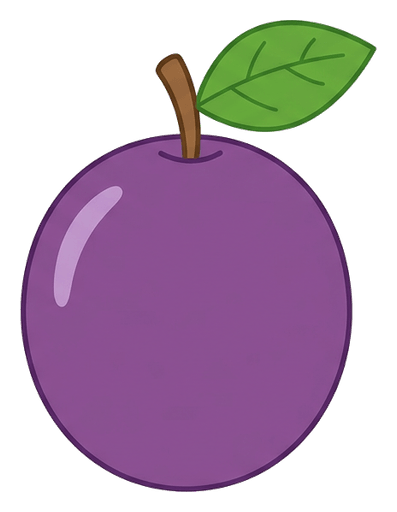
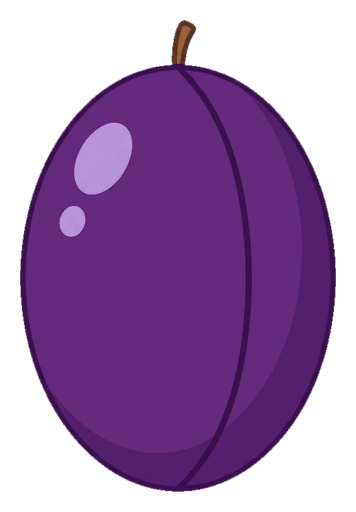
Tellen: nieuw pruimplaatje (ovaal, paars, zonder blaadje), oude als pruim-oud.png; besluit Sara Ronde 53 (controle overgeslagen: back-upbranch)
Claude-Session: https://claude.ai/code/session_019HGXxT1wyk7NJR8Z8Kb8k1

diff --git a/src/lib/voorwerpen/lijst-algemeen.ts b/src/lib/voorwerpen/lijst-algemeen.ts
@@ -23,7 +23,7 @@ export const ALGEMEEN: Voorwerp[] = [
     naam: "pruim",
     titel: "Pruim",
     groep: "fruit",
-    onderwerp: "a purple plum with a short brown stem",
+    onderwerp: "one plum fruit: an elongated egg-shaped oval, taller than wide, rich deep purple skin (violet-purple, not blue), a clear vertical crease line running down one side, one small soft highlight, a tiny thin brown stem on top and NO leaf; clearly a plum and not an apple (no dimple, no round apple shape)",
     schets: `<ellipse class="r" cx="100" cy="112" rx="58" ry="66" fill="#8a4fd0"/><path class="r" d="M100 46 L104 24" fill="none"/>`,
   },
   {

diff --git a/MAGNIFIC-PROMPTS.md b/MAGNIFIC-PROMPTS.md
@@ -82,12 +82,12 @@ Lessen: Meer, minder, evenveel (`squla-meer-minder-evenveel1-1`), Meer, minder, 
 a green pear with a short brown stem, simple flat illustration for a children's math app: solid flat colors, one soft highlight, thin dark outline, minimal details, no gradients, no shadow, no face, no eyes, no text. Single object centered on a plain pure white background.
 ```
 
-### 9. Pruim — `pruim.png` — ✅ gegenereerd
+### 9. Pruim — `pruim.png` — ✅ gegenereerd (opnieuw 20 nov 2026, Ronde 53: de oude leek op een paarse appel; nu ovaal, paars, met kerf, zonder blaadje; 2e poging (de 1e was te blauw, paste niet bij het paarse getal); vierkant 1:1, 1K, Nano Banana 2; oude bewaard als `pruim-oud.png`)
 
 Lessen: Proef: Fruit tellen (glow in the dark) (`proef-fruit-glow`), Proef: Fruit tellen (zonder glow) (`proef-fruit-plat`), Proef: Fruit tellen (gloed alleen als het iets betekent) (`proef-fruit-moment`), Fruit tellen (`squla-tellen-fruit-1`), Fruit tellen (nog moeilijker) (`squla-tellen-fruit-3`), Vormen en kleuren (`squla-vormen-kleuren-1`)
 
 ```
-a purple plum with a short brown stem, simple flat illustration for a children's math app: solid flat colors, one soft highlight, thin dark outline, minimal details, no gradients, no shadow, no face, no eyes, no text. Single object centered on a plain pure white background.
+one plum fruit: an elongated egg-shaped oval, taller than wide, rich deep purple skin (violet-purple, not blue), a clear vertical crease line running down one side, one small soft highlight, a tiny thin brown stem on top and NO leaf; clearly a plum and not an apple (no dimple, no round apple shape), simple flat illustration for a children's math app: solid flat colors, one soft highlight, thin dark outline, minimal details, no gradients, no shadow, no face, no eyes, no text. Single object centered on a plain pure white background.
 ```
 
 ### 10. Tomaat — `tomaat.png` — ✅ gegenereerd

diff --git a/WEGGEHAALD.md b/WEGGEHAALD.md
@@ -1232,3 +1232,5 @@ Per regel: datum · les · wat · reden · teruggezet?
 - 20 nov 2026 · Tellen extra (squla-tellen-extra-gouden.tsx, bijFout van stap 5 en 6): het dof maken van het andere fruit na een fout antwoord weggehaald; al het fruit blijft gewoon zichtbaar. Reden: Sara 20 november 2026 ("ook het andere fruit gewoon zichtbaar blijft").
 
 - 20 nov 2026 · Tellen extra: het teken "×" in het lijstje is TERUGGEZET (Sara, antwoord Ronde 53: groep 3 begint al met keersommen; Bliepo zegt "4 keer appel"). De weghaal-regel van eerder vandaag vervalt.
+
+- 20 nov 2026 · Pruimplaatje (public/voorwerpen/pruim.png, gebruikt in Fruit tellen gouden, Tellen extra, Fruit tellen 1 en 3, Vormen en kleuren en de fruitproeven): het oude plaatje is vervangen door een nieuw Magnific-plaatje (ovaal, paars, met kerf, zonder blaadje). Reden: Sara, Ronde 53: de pruim leek op een paarse appel. Het oude plaatje is niet weg: het staat als `public/voorwerpen/pruim-oud.png` (en een kopie in plaatjes-backup/).

diff --git a/PLAATJES-STAND.md b/PLAATJES-STAND.md
@@ -11,7 +11,7 @@ Gemaakt door `npm run voorwerpen`. 172 vervangen, 1 nog open.
 - ✅ 6. Mandarijn — `mandarijn.png` (versie 3)
 - ✅ 7. Olijf — `olijf.png` (versie 5)
 - ✅ 8. Peer — `peer.png` (versie 3)
-- ✅ 9. Pruim — `pruim.png` (versie 3)
+- ✅ 9. Pruim — `pruim.png` (versie 5, nieuw 20 nov 2026: ovaal en paars, niet meer als een appel; oude: `pruim-oud.png`)
 - ✅ 10. Tomaat — `tomaat.png` (versie 3)
 - ✅ 11. Watermeloen — `watermeloen.png` (versie 3)
 - ✅ 12. Beker met limonade — `beker-vol.png` (versie 3)
